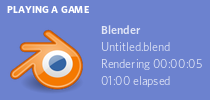
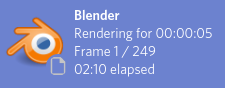
Add new information features

diff --git a/discordrpblender.py b/discordrpblender.py
@@ -12,13 +12,14 @@ showTimeElapsed = True;
 base_activity = {
     'assets': {
         'large_image': 'blender',
-        'large_text': 'Blender',
+        'large_text': 'Blender ' + bpy.app.version_string.split(" ")[0],
+        'small_image': 'default_file',
+        'small_text': '(Untitled)'
     },
     'timestamps': {},
 }
 
 pid = os.getpid()
-filename = ''
 objcount = 0
 timeElapsed = int(time.time())
 active = 0
@@ -42,8 +43,6 @@ def main():
 @persistent
 def resetTime(scene):
     bpy.ops.wm.modal_timer_operator()
-    global timeElapsed
-    timeElapsed = int(time.time())
 
 @persistent
 def render_begin(scene):
@@ -80,8 +79,6 @@ def set_activity():
     global rendertime
     global objcount
 
-    #Loop these variables
-    objcount = len(bpy.data.objects)
     if platform == "linux" or platform == "linux2":
         if not subprocess.getstatusoutput('xdotool')[0] == 0:
             pidcheck = subprocess.getstatusoutput('xdotool getwindowfocus getwindowpid')[1]
@@ -95,7 +92,7 @@ def set_activity():
                 if rendering == 1:
                     active = 2
                 else:
-                    active = 1
+                    active = 0
     else:
         if rendering == 1:
             active = 2
@@ -104,27 +101,42 @@ def set_activity():
 
     #Set activity for the player
     activity = base_activity
-    if bpy.context.selected_objects and rendering == 0:
-        if bpy.context.object.type == "ARMATURE":
-            if bpy.context.active_pose_bone:
-                activity['details'] = bpy.context.object.name + " - " + bpy.context.active_bone.name
-            else:
-                activity['details'] = bpy.context.object.name
+    if showFilename == True:
+        if bpy.path.basename(bpy.context.blend_data.filepath)[:-6]:
+            activity['assets']['small_text'] = bpy.path.basename(bpy.context.blend_data.filepath)[:-6]
         else:
-            activity['details'] = bpy.context.object.name
-    else:
-        activity['details'] = filename or "(Untitled)"
+            activity['assets']['small_text'] = "(Untitled)"
 
     if active == 0:
-        if not bpy.context.selected_objects:
-            activity['state'] = '(' + str(objcount) + ' objects)'
-        else:
-            activity['state'] = bpy.context.object.type[:1] + bpy.context.object.type[1:].lower()
+        string = bpy.context.mode.split("_")
+        string1 = string[0].lower().capitalize()
+
+        if len(string) > 1:
+            string1 = string1 + " " + string[1].lower().capitalize()
+
+        activity['details'] = string1 + " Mode"
     elif active == 1:
-        activity['details'] = filename or "(Untitled)"
-        activity['state'] = 'Idle'
+        activity['details'] = 'Idle'
     elif active == 2:
-        activity['state'] = 'Rendering for ' + '0' + str(datetime.timedelta(seconds=((int(time.time() - rendertime))))) # Hacky
+        activity['details'] = 'Rendering for ' + '0' + str(datetime.timedelta(seconds=((int(time.time() - rendertime))))) # Hacky
+
+    if bpy.context.mode == "OBJECT" and active != 2:
+        count = len(bpy.data.objects)
+        activity['state'] = '(' + str(count) + ' ' + ("object" if count == 1 else "objects") + ')'
+    else:
+        if active != 2:
+            ob = bpy.context.object
+            ob.update_from_editmode()
+
+            if ob.type == "MESH":
+                count = len(bpy.context.object.data.vertices)
+                activity['state'] = '(' + str(count) + ' ' + ("vertex" if count == 1 else "vertices") + ')'
+            elif ob.type == "ARMATURE":
+                count = len(bpy.context.object.data.bones)
+                activity['state'] = '(' + str(count) + ' ' + ("bone" if count == 1 else "bones") + ')'
+                
+        else:
+            activity['state'] = "Frame " + str(bpy.context.scene.frame_current) + " / " + str(bpy.context.scene.frame_end - bpy.context.scene.frame_start)
 
     if showTimeElapsed == True:
         activity['timestamps']['start'] = timeElapsed
@@ -144,8 +156,6 @@ class ModalTimerOperator(bpy.types.Operator):
         if event.type == 'TIMER':
             global filename
             global timerfile
-            if showFilename == True:
-                filename = bpy.path.basename(bpy.context.blend_data.filepath)[:-6]
 			
             if time.time() - timerfile > 0.05:
                 timerfile = time.time()
@@ -156,7 +166,7 @@ class ModalTimerOperator(bpy.types.Operator):
     @persistent
     def execute(self, context):
         wm = context.window_manager
-        self._timer = wm.event_timer_add(0.1, window=context.window)
+        self._timer = wm.event_timer_add(2, window=context.window)
         wm.modal_handler_add(self)
         return {'RUNNING_MODAL'}
 

diff --git a/README.md b/README.md
@@ -2,16 +2,19 @@
 
 ![Logo](https://raw.githubusercontent.com/An0n3m0us/DiscordRPBlender/master/images/DiscordRPBlender.png)
 
-Discord Rich Presence for Blender 2.7+ and 2.8 (tested on 2.79 and 2.8 (render information in Internal and Cycles engine only))
+Discord Rich Presence for Blender (tested on 2.79 and 2.83.8 (render information in Internal and Cycles engine only))
 
-[Images](https://github.com/An0n3m0us/DiscordRPBlender/wiki/Images)
+![Img1](https://raw.githubusercontent.com/An0n3m0us/DiscordRPBlender/master/images/ImgDefault.png)
+![Img2](https://raw.githubusercontent.com/An0n3m0us/DiscordRPBlender/master/images/ImgEditing.png)
+![Img3](https://raw.githubusercontent.com/An0n3m0us/DiscordRPBlender/master/images/ImgRendering.png)
 
 DiscordRPBlender currently supports:
-- Filename
-- Amount of objects / Idle status / Render status (No idle status for Windows and Mac yet)
-- Render time
-- Time spent on project (not all-time just session time)
+- Displaying filename (can be toggled)
+- Scene & Object information / \*Idle status (Linux only) / Render status & time
+- Time elapsed (can be toggled)
 - Changing files without turning client off
+
+\* Removed temporarily
 
 [Changelog](https://github.com/An0n3m0us/DiscordRPBlender/wiki/Changelog)
 
